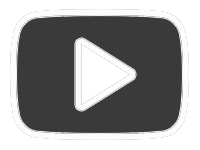
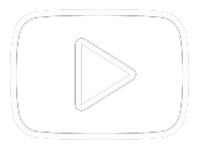
youtube fix with ripple test 2

diff --git a/js/ripple.js b/js/ripple.js
@@ -14,6 +14,8 @@ $(function(){
 				}
 				$(".play").attr('src','img/play-icon.png');
 				$(".upload").attr('src','img/upload-icon.png');
+				$(".youtube").attr('src','img/youtube-icon.png');
+				
 				$(".ripplelink").animate({backgroundColor:'transparent'}, 100).parent().animate({borderColor:'transparent'},100).parent().animate({borderColor:'transparent'},100).animate({borderColor:'transparent'},100);
 				
 				$(this).animate({backgroundColor:'#ffffff'}, 200).parent().animate({borderColor:'#ffffff'},300).parent().animate({borderColor:'#ffffff'},300).animate({borderColor:'transparent'},300);
@@ -22,6 +24,9 @@ $(function(){
 				}
 				else if($(this).find('img').attr('title')=="upload"){
 					$(this).find('img').attr('src','img/uploadh-icon.png');
+				}
+				else if($(this).find('img').attr('title')=="youtube"){
+					$(this).find('img').attr('src','img/youtubeh-icon.png');
 				}
 				x = e.pageX - $(this).offset().left - ink.width()/2;
 				y = e.pageY - $(this).offset().top - ink.height()/2;

diff --git a/css/index.css b/css/index.css
@@ -186,7 +186,7 @@ h1 {
 	color:white;
 	font-family: 'vodafonebold';
 	text-transform: capitalize;
-	margin-top:100%;
+	margin-top:95%;
 	margin-left:10%;
 	text-align:left;
 	font-size:90px;
@@ -410,11 +410,11 @@ h1 {
 }
 
 .animate {
-	-webkit-animation:ripple 0.5s linear;
-   -moz-animation:ripple 0.5s linear;
-    -ms-animation:ripple 0.5s linear;
-     -o-animation:ripple 0.5s linear;
-        animation:ripple 0.5s linear;
+	-webkit-animation:ripple 0.3s linear;
+   -moz-animation:ripple 0.3s linear;
+    -ms-animation:ripple 0.3s linear;
+     -o-animation:ripple 0.3s linear;
+        animation:ripple 0.3s linear;
 }
 
 @-webkit-keyframes ripple {
